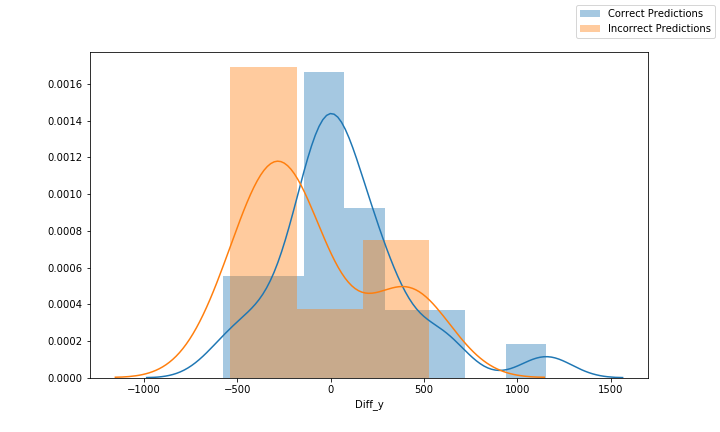
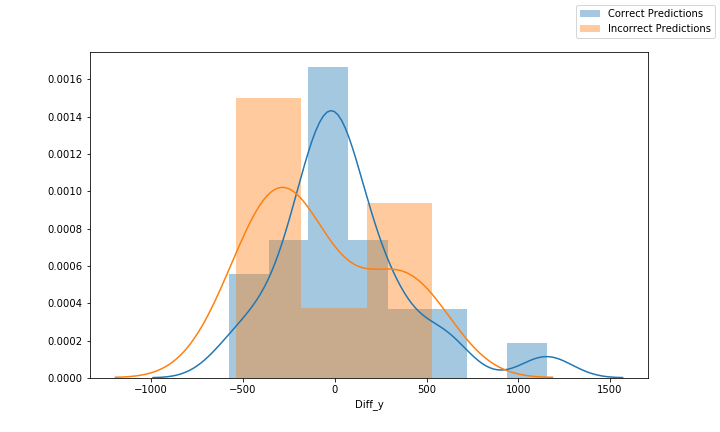
first draft

diff --git a/Conclusions.tex b/Conclusions.tex
@@ -1,7 +1,17 @@
 \section{Conclusions}
-I have conclusions
+The aim of this dissertation was to use the GDELT database to build topic models from news headlines, and if that were successful to use the topic model to filter out news headlines, and then use the Conflict cooperation Goldstein scale as a geopolitical risk measure to predict against the stock market. 
 
+There were several approaches to calculating geopolitical risk in the past which work from manually calculating occurrences of key words in news articles. This dissertation used a pre-existing Conflict Cooperation scale from events as a measure of geopolitical risk, with the main filtering occurring by choosing which events to factor in based on the headlines of those events.  The original attempt for topic modelling was to use a LDA model on restricted data to attempt to separate topics.    
 
+It was found that despite changing the number of topics being used it was unable to provide a quantitative value for unseen information, as all information which could be classified would have to exist in the corpus when the topic model was created, which would mean that it cannot detect new topics occurring. This meant that this approach would not be usable, as it would not be able to detect new topics.
+
+Thus to try to gain a more quantitative approach, the K-means algorithm was used alongside TF-IDF vectorization, which would  firstly build clusters of words in an attempt to collate the individual topics present into those clusters. Then the aim was to use the Mahalanobis distance between cluster centres and unseen headlines and news to filter out or weight headlines which are relevant to the topic or not by how close they are to the cluster. 
+
+However, the main issue which occurred with this approach is that there was no useful cluster separation occurring. The cluster definitions were all not as expected in terms of clustering. However the main issue with this was that the distance metric for unseen headlines and news was not useful. The TF-IDF metric meant that the algorithm placed new information the same as noise and irrelevant data. Thus this too would not be able to be used as it would not be able to distinguish new topics, nor was it able to provide distance calculations accurately for filtering purposes.
+
+Since neither of the topic modelling approaches appeared to work effectively, the modelling was done on the GDELT data filtered in GDELT itself, as opposed to filtered through the topic models. The models used were classification models which aimed to predict stock shift up or down. These models appeared to be reasonably accurate, with the best of them being more accurate on a separate set of data as compared to a reference model which just used the previous day's data. Only a few model types and strategies were explored in this dissertation, there is definitely the potential in terms of further work to explore other different types of models.
+
+Over the course of this dissertation, several topic modelling algorithms were tried to build a filtering system, but they ran into the problem of the topics and clusters being too close together, and thus neither the topics nor the clusters were distinct. More pertinently the issue of cluster and topic models being designed to work on a complete dataset, and not providing accurate results for unseen data was the main reason why this approach was thought to not work in this fashion. These algorithms might work if the data was more carefully selected with regards to Tf-IDF values, but it does not appear to be useful in this manner. With regards to the models, there always remains more scope for trying different types of models which may present more accurate results, but the preliminary results appear to suggest that the Goldstein score and the Average tone might both be useful in terms of predicting on the stock market.
 
 
 \section{Further Work}

diff --git a/Results.tex b/Results.tex
@@ -282,7 +282,7 @@ The best model's algorithm was used to train another model which just used the p
 
 The predictions are shown in figure \ref{fig:modelpred}, where the magnitude of the differences has been plotted, alongside whether the best model was correct in predicting a positive or negative shift (blanks are weekends or days when the stock market didn't operate). There does not appear to be a time based prediction component, the model is just as likely to predict correctly or incorrectly regardless of the time that it is predicting on. Interestingly, the model does not appear to be very good at predicting for large stretches correctly, it correctly predicts for a day or two, and then has incorrect predictions for a similar length of interval. The exception to this is when halfway through the prediction, the model correctly predicts the spike and the subsequent fall and recovery. 
 
-The distribution of magnitude of the positive and negative daily differences is plotted in Figure \ref{fig:distmodel}.  It is apparent that the model is better at predicting smaller differences in the stock market. the majority of incorrect predictions come from larger negative values and slightly from the positive jumps. There are significantly fewer incorrect predictions when the market jumps between -500 and +500 points. Interestingly, there is a small bump at a large positive value of +1000, suggesting the model was good at predicting large positive values. 
+The distribution of magnitude of the positive and negative daily differences is plotted in Figure \ref{fig:distmodel}.  It is apparent that the model is better at predicting smaller differences in the stock market. the majority of incorrect predictions come from larger negative values closer to -500 points and slightly from the positive jumps. There are significantly fewer incorrect predictions when the market jumps between -250 and +250 points. Interestingly, there is a small bump at a large positive value of +1000, suggesting the model was good at predicting large positive values. 
 
 \begin{figure}[H]
 	\centering

diff --git a/main.tex b/main.tex
@@ -41,7 +41,7 @@
 \titlespacing*{\paragraph}
 {0pt}{3.25ex plus 1ex minus .2ex}{1.5ex plus .2ex}
 \begin{document}
-\title{Insert title here}
+\title{Topic Models and The Stock Market: A GDELT story}
 \author{}
 \date{}
 %\setcounter{secnumdepth}{-2}
